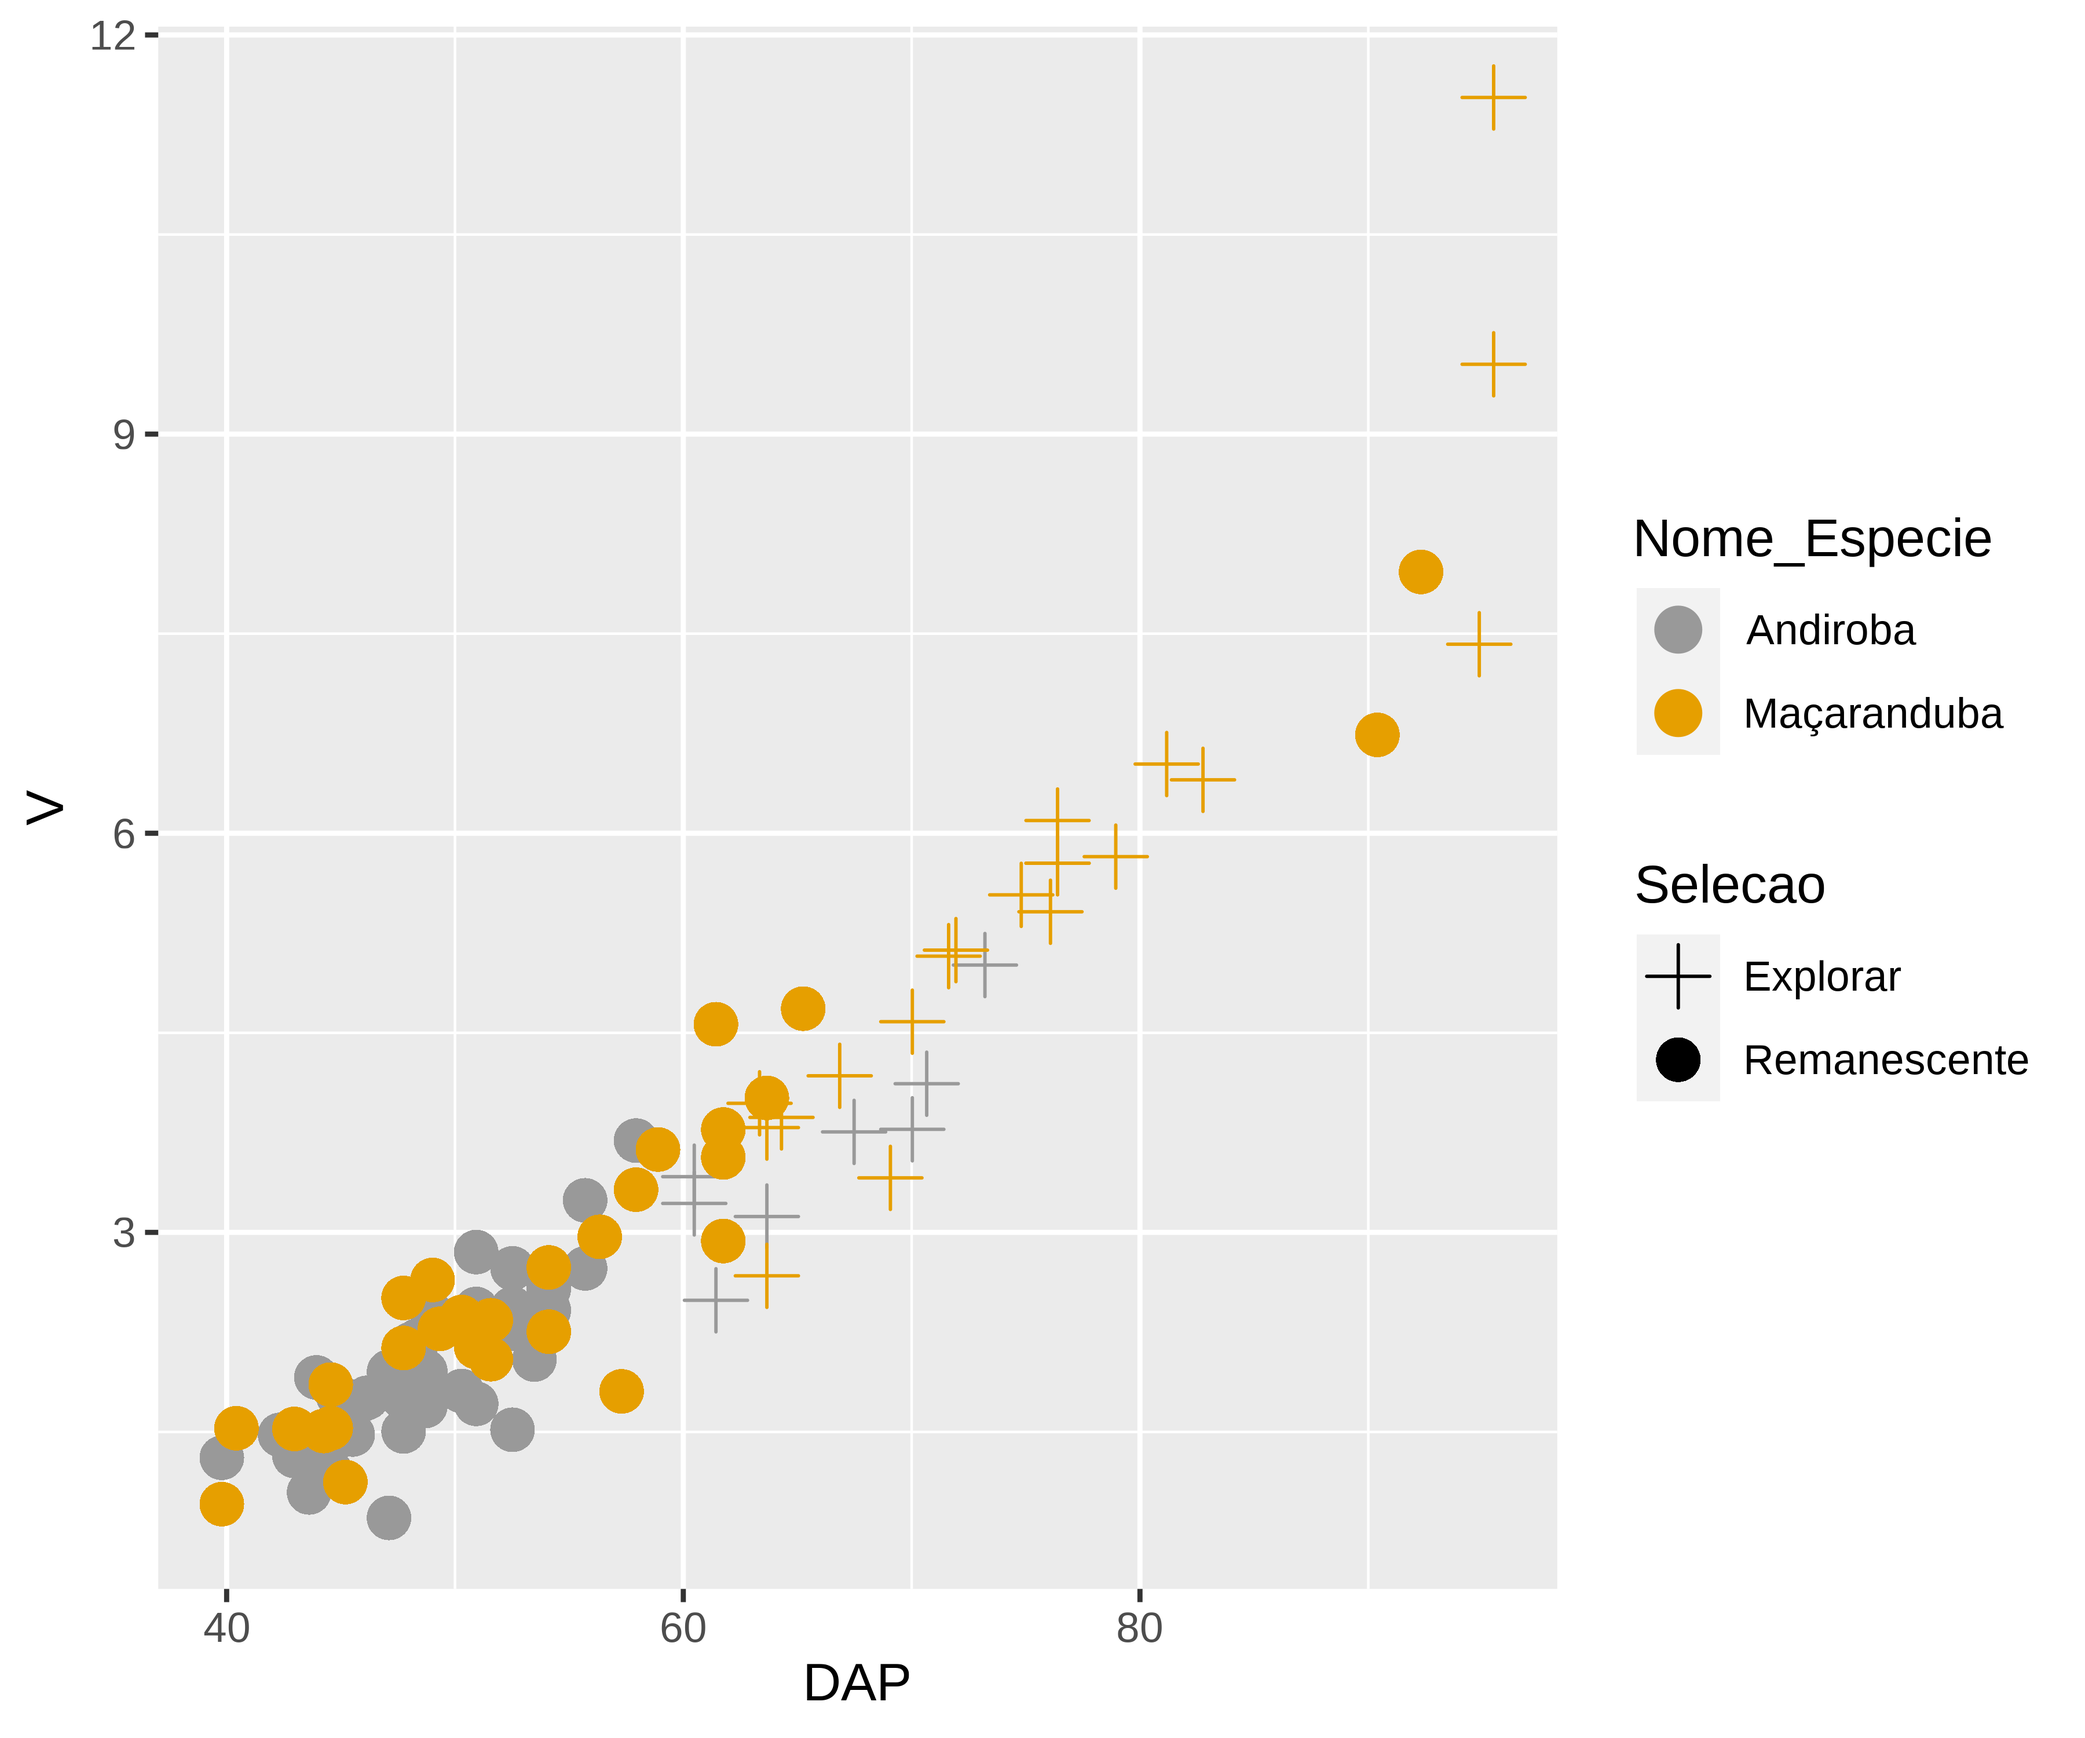
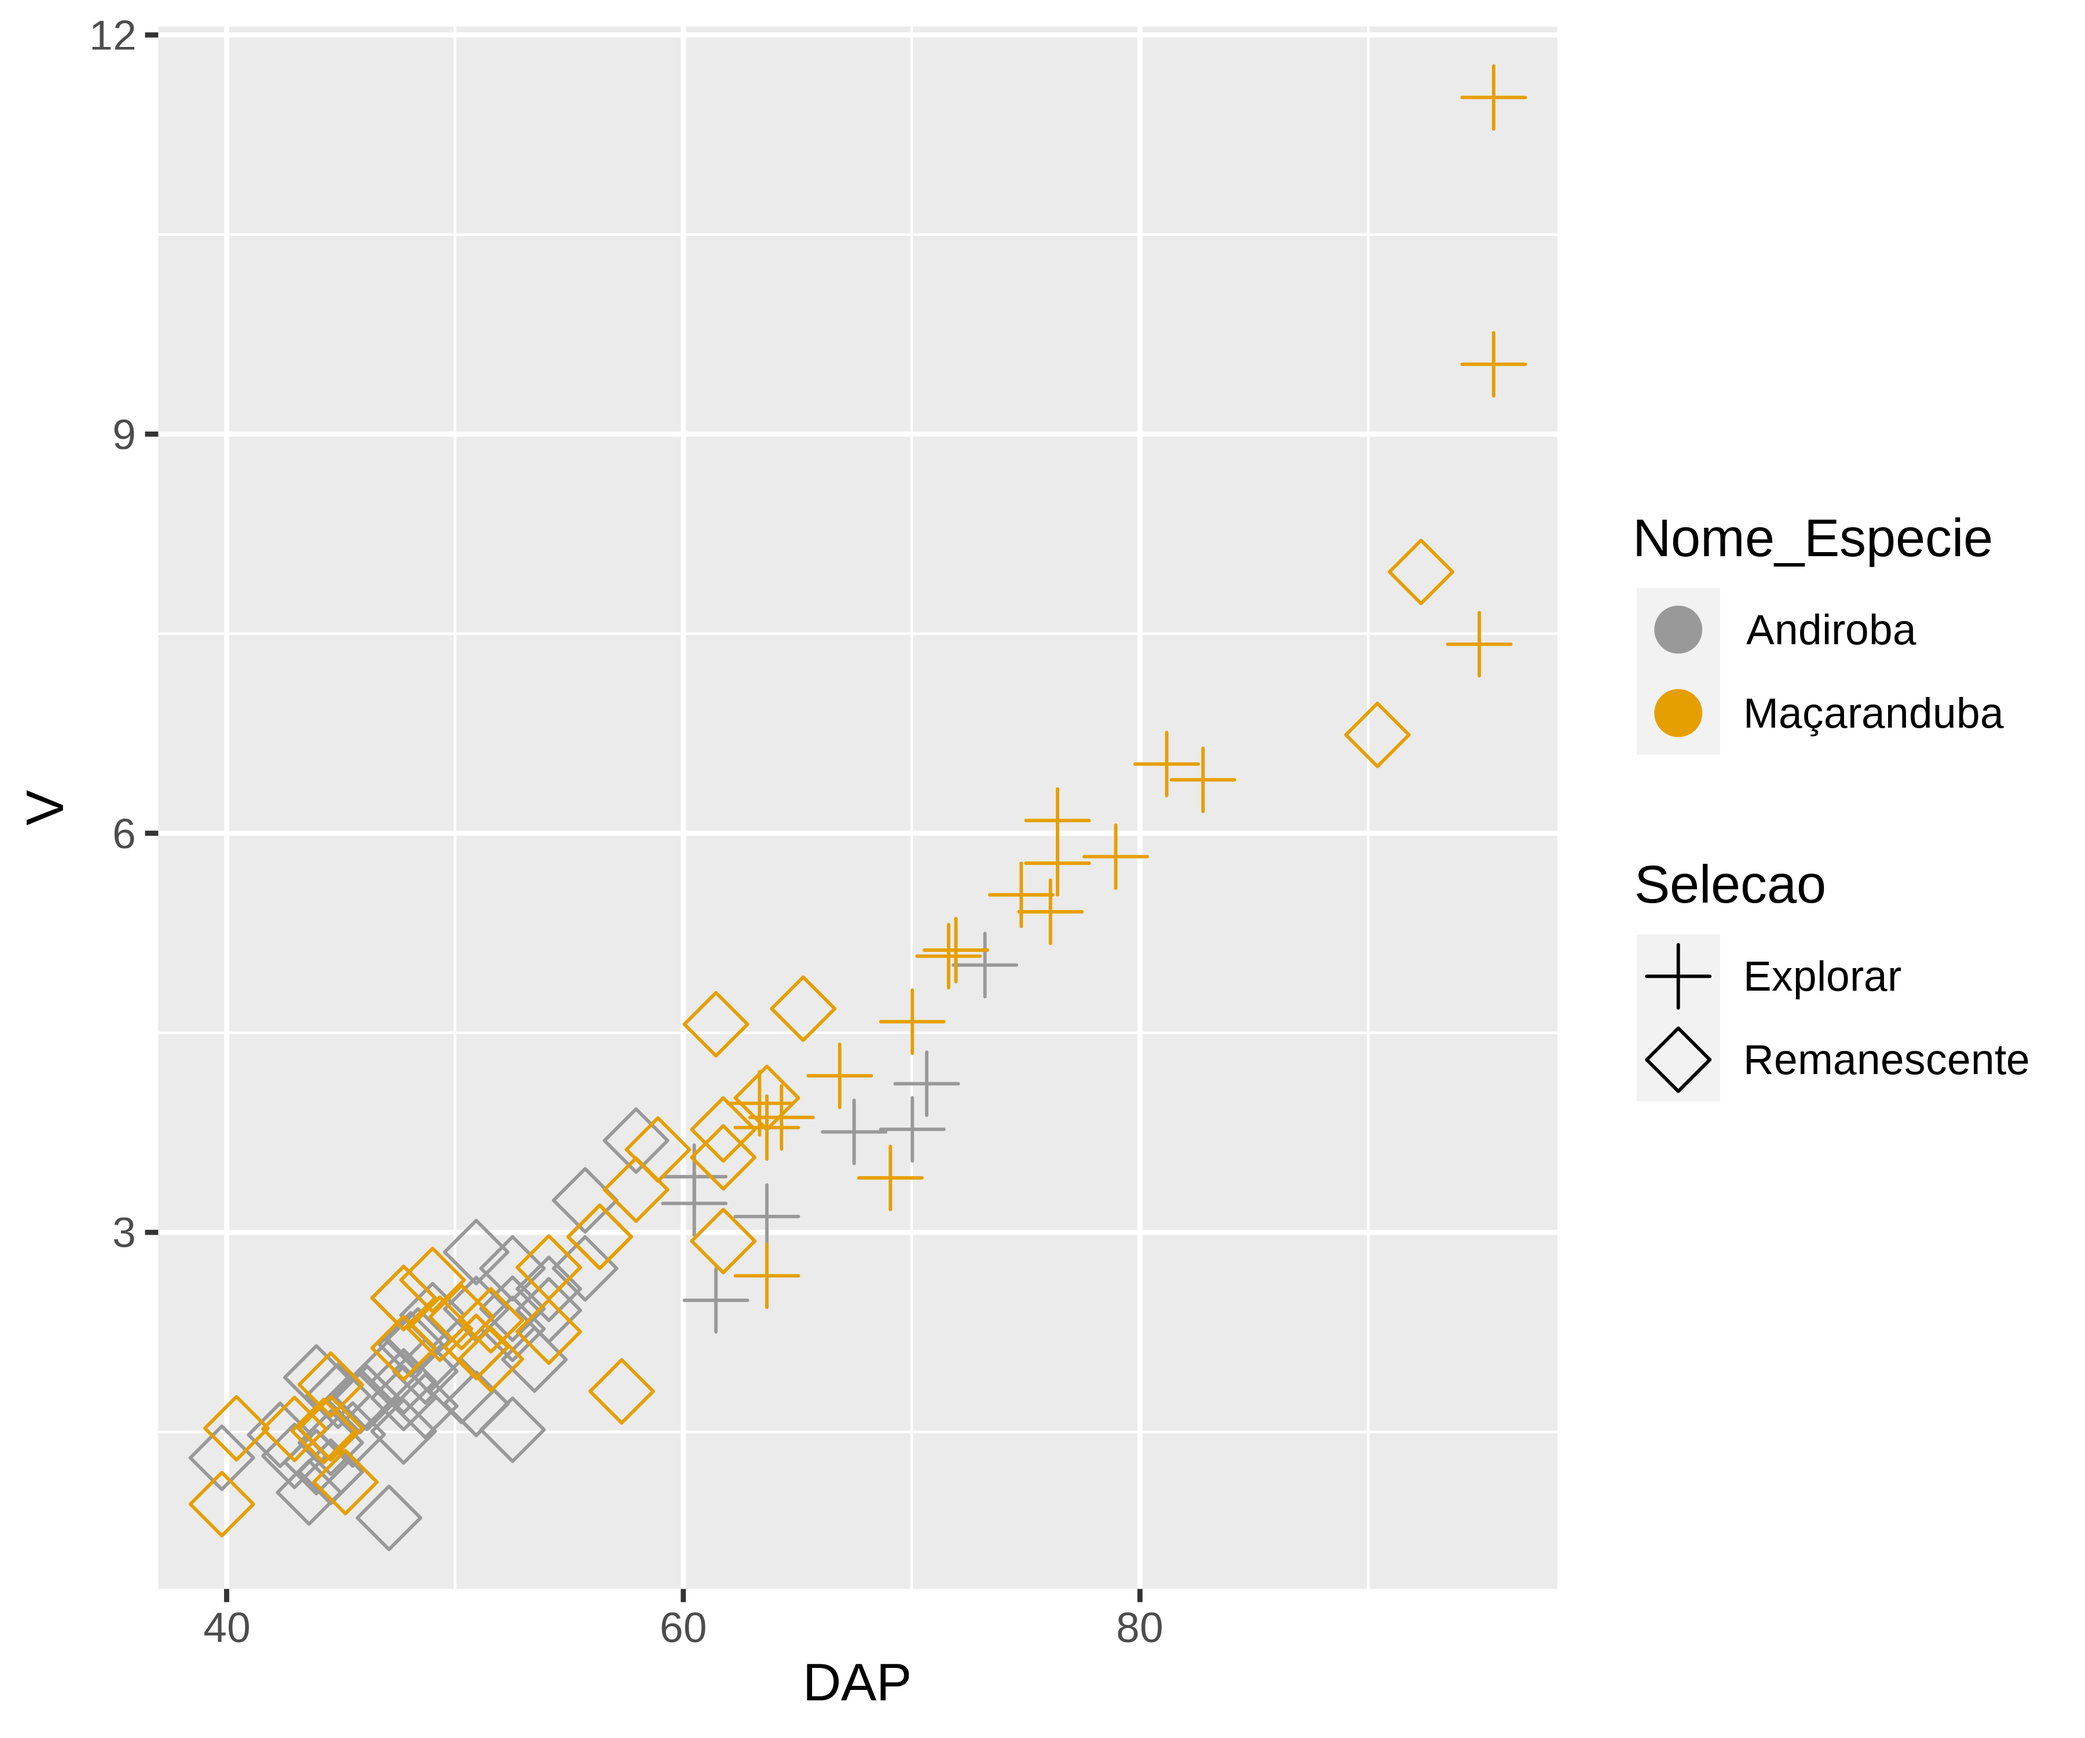
Update part3

diff --git a/Slides/03-Visualizacao-Dados.html b/Slides/03-Visualizacao-Dados.html
@@ -7,7 +7,7 @@
     <script src="03-Visualizacao-Dados_files/header-attrs-2.7/header-attrs.js"></script>
     <link href="03-Visualizacao-Dados_files/remark-css-0.0.1/default.css" rel="stylesheet" />
     <link href="03-Visualizacao-Dados_files/xaringanExtra-extra-styles-0.2.6/xaringanExtra-extra-styles.css" rel="stylesheet" />
-    <script type="application/json" id="xaringanExtra-editable-docid">{"id":"b242d92be00e447f84bf2c5e4e1bbd03","expires":1}</script>
+    <script type="application/json" id="xaringanExtra-editable-docid">{"id":"x3bd86886f3f4d6a898d958c9f70e674","expires":1}</script>
     <script src="03-Visualizacao-Dados_files/himalaya-1.1.0/himalaya.js"></script>
     <script src="03-Visualizacao-Dados_files/js-cookie-3.0.0/js.cookie.js"></script>
     <link href="03-Visualizacao-Dados_files/editable-0.2.6/editable.css" rel="stylesheet" />
@@ -648,7 +648,7 @@ ggplot(data = data_sample %&gt;%
   geom_point(mapping = aes(colour = Nome_Especie,
                            shape = Selecao),
              size = 4) +    # 2ª camada
-  scale_shape_manual(values = c(3, 16)) +
+  scale_shape_manual(values = c(3, 5)) +
   scale_color_manual(values = c('#999999','#E69F00'))
 ```
 &lt;br&gt;
@@ -664,6 +664,22 @@ ggplot(data = data_sample %&gt;%
 .font80[
 &lt;img src="03-Visualizacao-Dados_files/figure-html/unnamed-chunk-16-1.png" style="display: block; margin: auto;" /&gt;
 ]
+]
+
+---
+
+## Pacote ggplot2 (tidyverse)
+&lt;br&gt;
+### Gráfico de pontos (dispersão) - Estética de pontos
+
+.pull-left-1[
+&lt;br&gt;&lt;br&gt;&lt;br&gt;&lt;br&gt;
+
+.center[**Tipos de formas (shapes)**]
+]
+
+.pull-right-2[
+&lt;img src="03-Visualizacao-Dados_files/figure-html/unnamed-chunk-17-1.png" width="60%" style="display: block; margin: auto;" /&gt;
 ]
 
 ---
